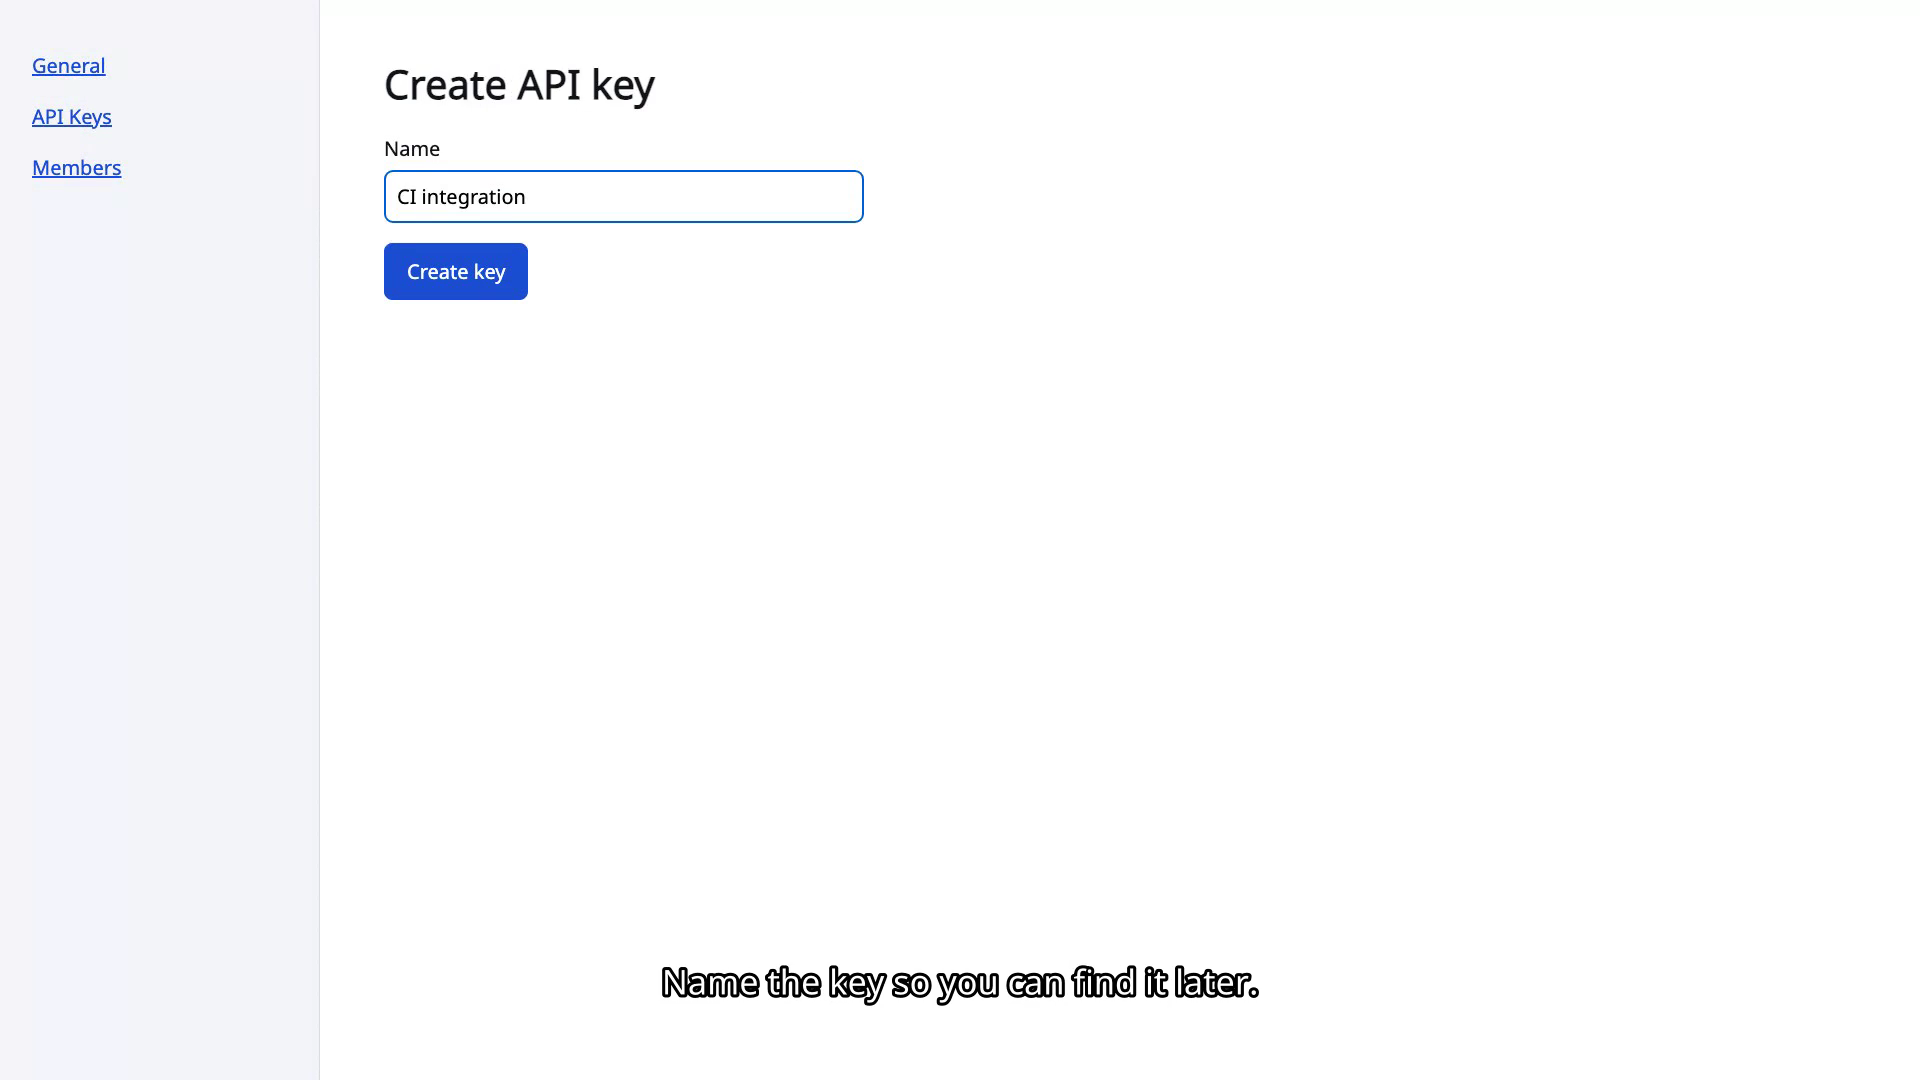
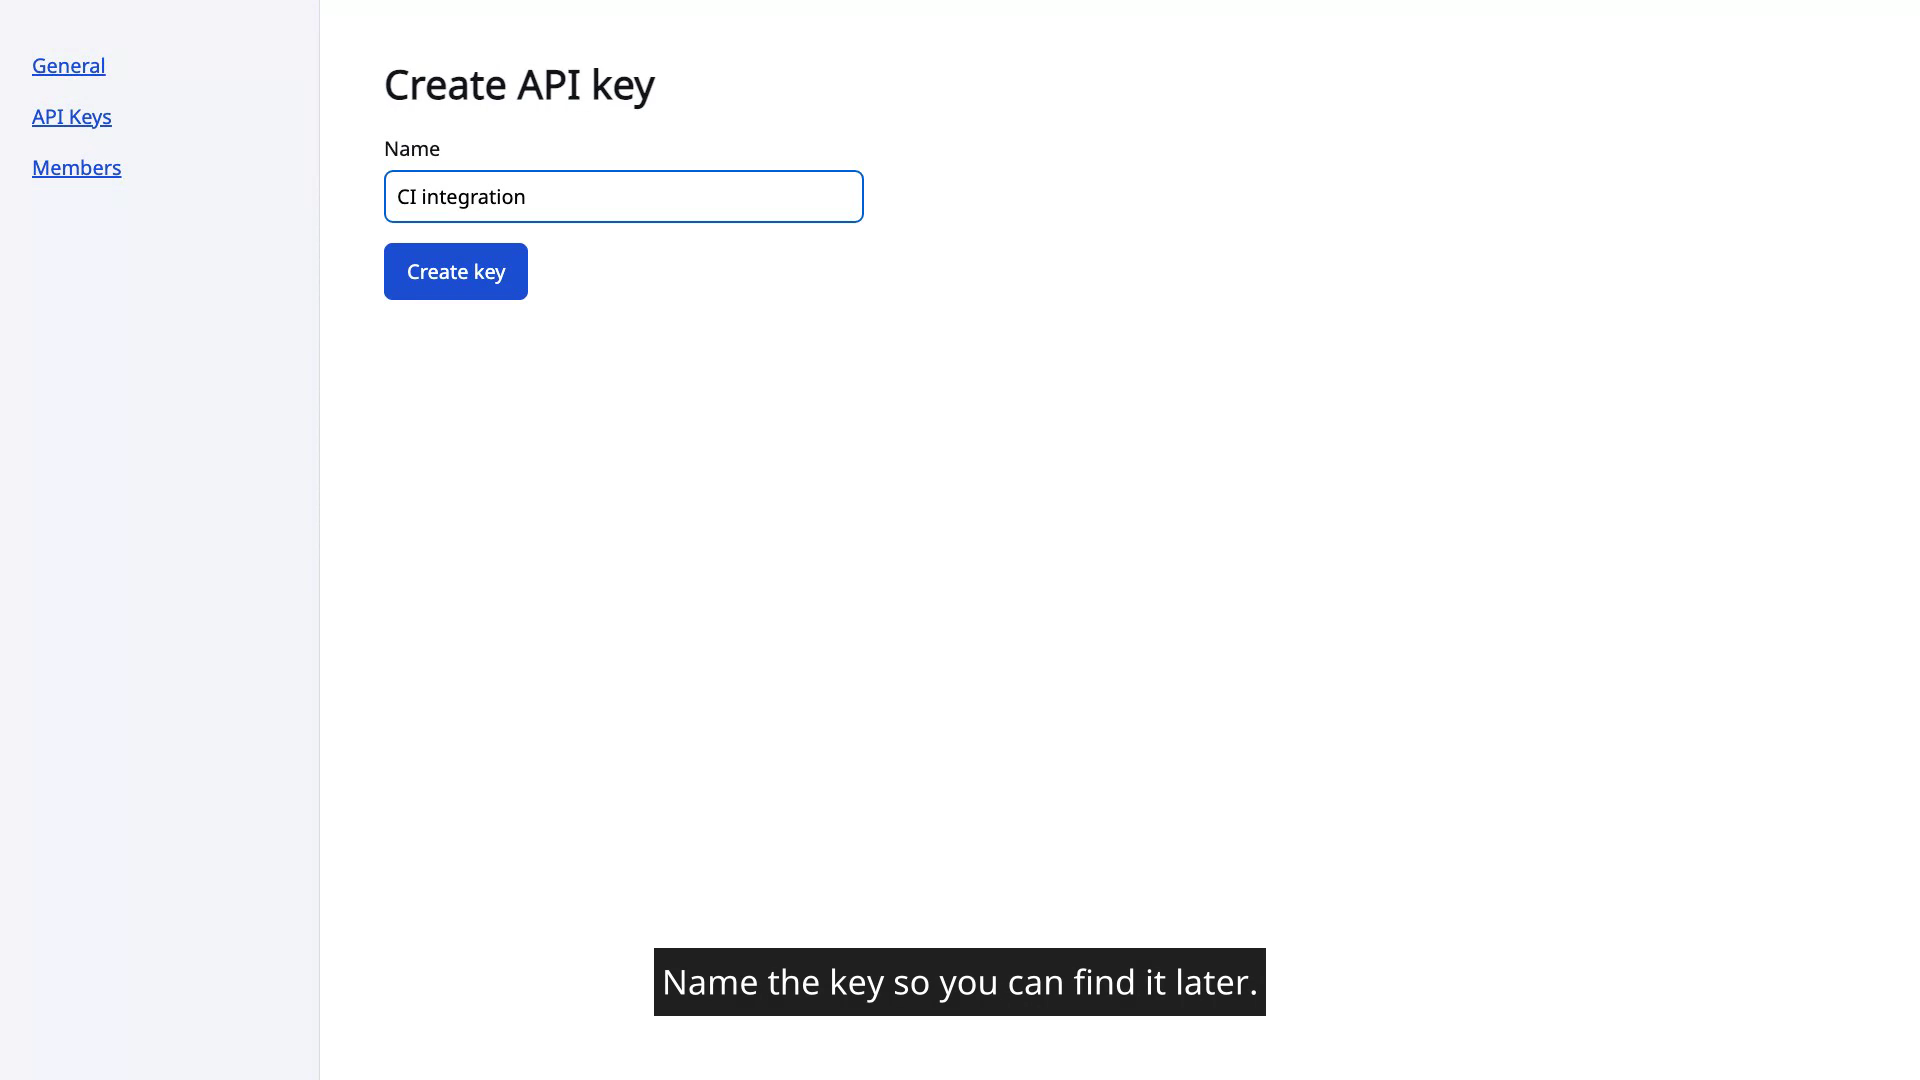
Update

Changed region(s): [[0.3438, 0.8556, 0.6562, 0.9472]]

diff --git a/README.md b/README.md
@@ -1,4 +1,4 @@
-# PlainTake
+# PlainTake — demo videos you can re-run
 
 > Turns a committed TypeScript file into a narrated browser demo video — locally, with no
 > network at render time and nothing to sign up for.
@@ -12,14 +12,18 @@ it was made. Re-run it after a UI change and you get the same demo again, update
 
 Each run produces:
 
-- `demo-soft.mp4` — H.264 with a selectable caption track
-- `demo-hard.mp4` — H.264 with captions burned into the pixels
+- `demo.mp4` — one H.264 video, captions burned into the pixels. A licence can swap the
+  burn-in for a selectable caption track instead
 - `captions.srt`, `captions.vtt`, `captions.ass` — standalone caption files
 - an evidence bundle: the scenario source, the raw capture, a Playwright trace, the semantic
   event timeline, the exact render plan, the toolchain versions, and a SHA-256 manifest you
   can re-verify at any time
 
-The output is **silent video with text subtitles**. There is no audio and no text-to-speech.
+The output is **silent video with text subtitles**. There is no audio and no text-to-speech —
+which is why the captions are burned in. No browser renders an in-container caption track, and
+neither do Slack, X, LinkedIn or GitHub, so a selectable track would leave the narration
+invisible in exactly the places demo videos get shared. The `.srt` and `.vtt` files are written
+on every run, for a `<track>` tag or a translation source.
 
 ## What it looks like
 
@@ -146,8 +150,8 @@ exit — so an agent running `plaintake` never sits waiting on a prompt.
 ```
 plaintake validate <scenario.ts>
 plaintake run      <scenario.ts> --output <dir> (--base-url <url> | --fixture)
-                                  [--subtitles soft|hard|both]
-plaintake render   <bundleDir> [--subtitles soft|hard|both]
+                                  [--subtitles hard|soft]
+plaintake render   <bundleDir> [--subtitles hard|soft]
 plaintake verify   <bundleDir>
 plaintake inspect  <bundleDir>
 plaintake doctor
@@ -277,7 +281,7 @@ artifacts/create-api-key/
 ├── events/events.ndjson        what happened, and when
 ├── captions/captions.{srt,vtt,ass}
 ├── render/render-plan.json     the frozen plan, including the FFmpeg arguments used
-├── output/demo-{base,soft,hard}.mp4
+├── output/demo.mp4             the one video, in the mode you asked for
 ├── logs/                       one log per FFmpeg run
 ├── manifest.json               a SHA-256 of every file
 └── manifest.sha256             a hash of the manifest itself
@@ -300,6 +304,7 @@ Recordings panel in the menu is how you do that.
 | Closing credit card | 3s *Made with PlainTake* | removed |
 | Your own outro text and colours | ❌ | ✅ |
 | MP4 chapter markers from `demo.chapter()` | ❌ | ✅ |
+| Selectable caption track instead of burned-in | ❌ | ✅ |
 | Price | free | one-time, perpetual |
 
 **Buy a licence: [plainlab.gumroad.com/l/plaintake](https://plainlab.gumroad.com/l/plaintake)** —
@@ -311,6 +316,11 @@ install it on as many of your own machines as you need.
 
 **Chapter events are recorded on every tier.** Only the markers in the MP4 are withheld, so
 nothing is lost by recording on Free and activating later — re-render and the chapters appear.
+
+**The caption files are written on every tier** too. `captions.srt` and `captions.vtt` sit
+beside the video whatever you paid, so a `<track>` tag or a translation source needs no
+licence. What a licence buys is the track muxed *into* the MP4, for the desktop players that
+render one.
 
 **The videos are yours on both tiers.** No ownership claim, no licence back to us, no
 restriction on selling what you make. See [`LICENSE`](LICENSE) §3.

diff --git a/docs/samples/README.md b/docs/samples/README.md
@@ -4,11 +4,11 @@ From the `create-api-key` example, recorded against the bundled demo app — so 
 reproduce it yourself with nothing but a PlainTake install:
 
 ```bash
-plaintake run create-api-key.demo.ts --output demo --fixture --subtitles both
+plaintake run create-api-key.demo.ts --output demo --fixture --subtitles hard
 ```
 
 **Stills, captions and the manifest — not the video.** Four frames extracted from
-`demo-hard.mp4`, the standalone SRT, and the manifest. An MP4 here would add megabytes and
+`demo.mp4`, the standalone SRT, and the manifest. An MP4 here would add megabytes and
 show nothing the frames do not.
 
 | File | Shows |
@@ -29,6 +29,17 @@ That is the difference between a mask and a blur. The mask is registered by CSS 
 *before* the element exists, so it covers the secret in every frame it could have appeared in.
 Nothing is removed after the fact, and there is no frame where the value was visible.
 
+## How the captions look
+
+White text on a dark plate, in the bottom safe area, wrapped so the lines come out roughly
+even. The plate is there because PlainTake mostly records light interfaces, and outlined text
+on a white page is hard to read no matter how thick the outline. It is slightly transparent,
+so the page still shows through and the caption reads as part of the video.
+
+Captions are burned into the pixels, which is what makes them show up in a browser, in Slack
+and in a muted autoplay embed. A licence also lets you export a selectable caption track
+instead, for desktop players.
+
 ## The closing card
 
 `04-outro-credit.png` is the free tier's card: three seconds, centred, on near-black. A licence
@@ -45,7 +56,7 @@ chapters and one without decode to identical frames. To see them, record with a 
 read them back:
 
 ```bash
-ffprobe -v error -show_chapters demo/output/demo-soft.mp4
+ffprobe -v error -show_chapters demo/output/demo.mp4
 ```
 
 These stills come from a **free tier** recording, so it has the credit card and no chapters.

diff --git a/CHANGELOG.md b/CHANGELOG.md
@@ -12,9 +12,18 @@ First release.
 produces a narrated video. Steps, waits, masks and chapters are declared in the scenario; no
 recording is done by hand and no take is edited.
 
-**Output.** Every run produces `demo-base.mp4`, `demo-soft.mp4` (a selectable `mov_text`
-caption track) and `demo-hard.mp4` (captions burned in with libass), plus `captions.srt`,
-`captions.vtt` and `captions.ass`.
+**Output.** Every run produces one video, `demo.mp4`, plus `captions.srt`, `captions.vtt` and
+`captions.ass` beside it. Captions are burned in with libass by default, because PlainTake
+records silent video and no browser, Slack, X or LinkedIn renders an in-container caption
+track — a selectable track would leave the narration invisible where demos actually get
+watched. A licence can swap the burn-in for a `mov_text` track for the desktop players that do
+render one.
+
+Captions are white text on a slightly transparent dark plate, wrapped so the lines come out
+roughly even rather than one full line and one stray word. The plate is there because
+PlainTake mostly records light interfaces, where outlined text is hardest to read; measured on
+the bundled example, the weakest part of an outlined caption had a local contrast of 25
+against 170 for the plate.
 
 **An evidence bundle, not just a file.** Each recording keeps the scenario source, the raw
 capture, the Playwright trace, a semantic event timeline, the exact render plan, the toolchain
